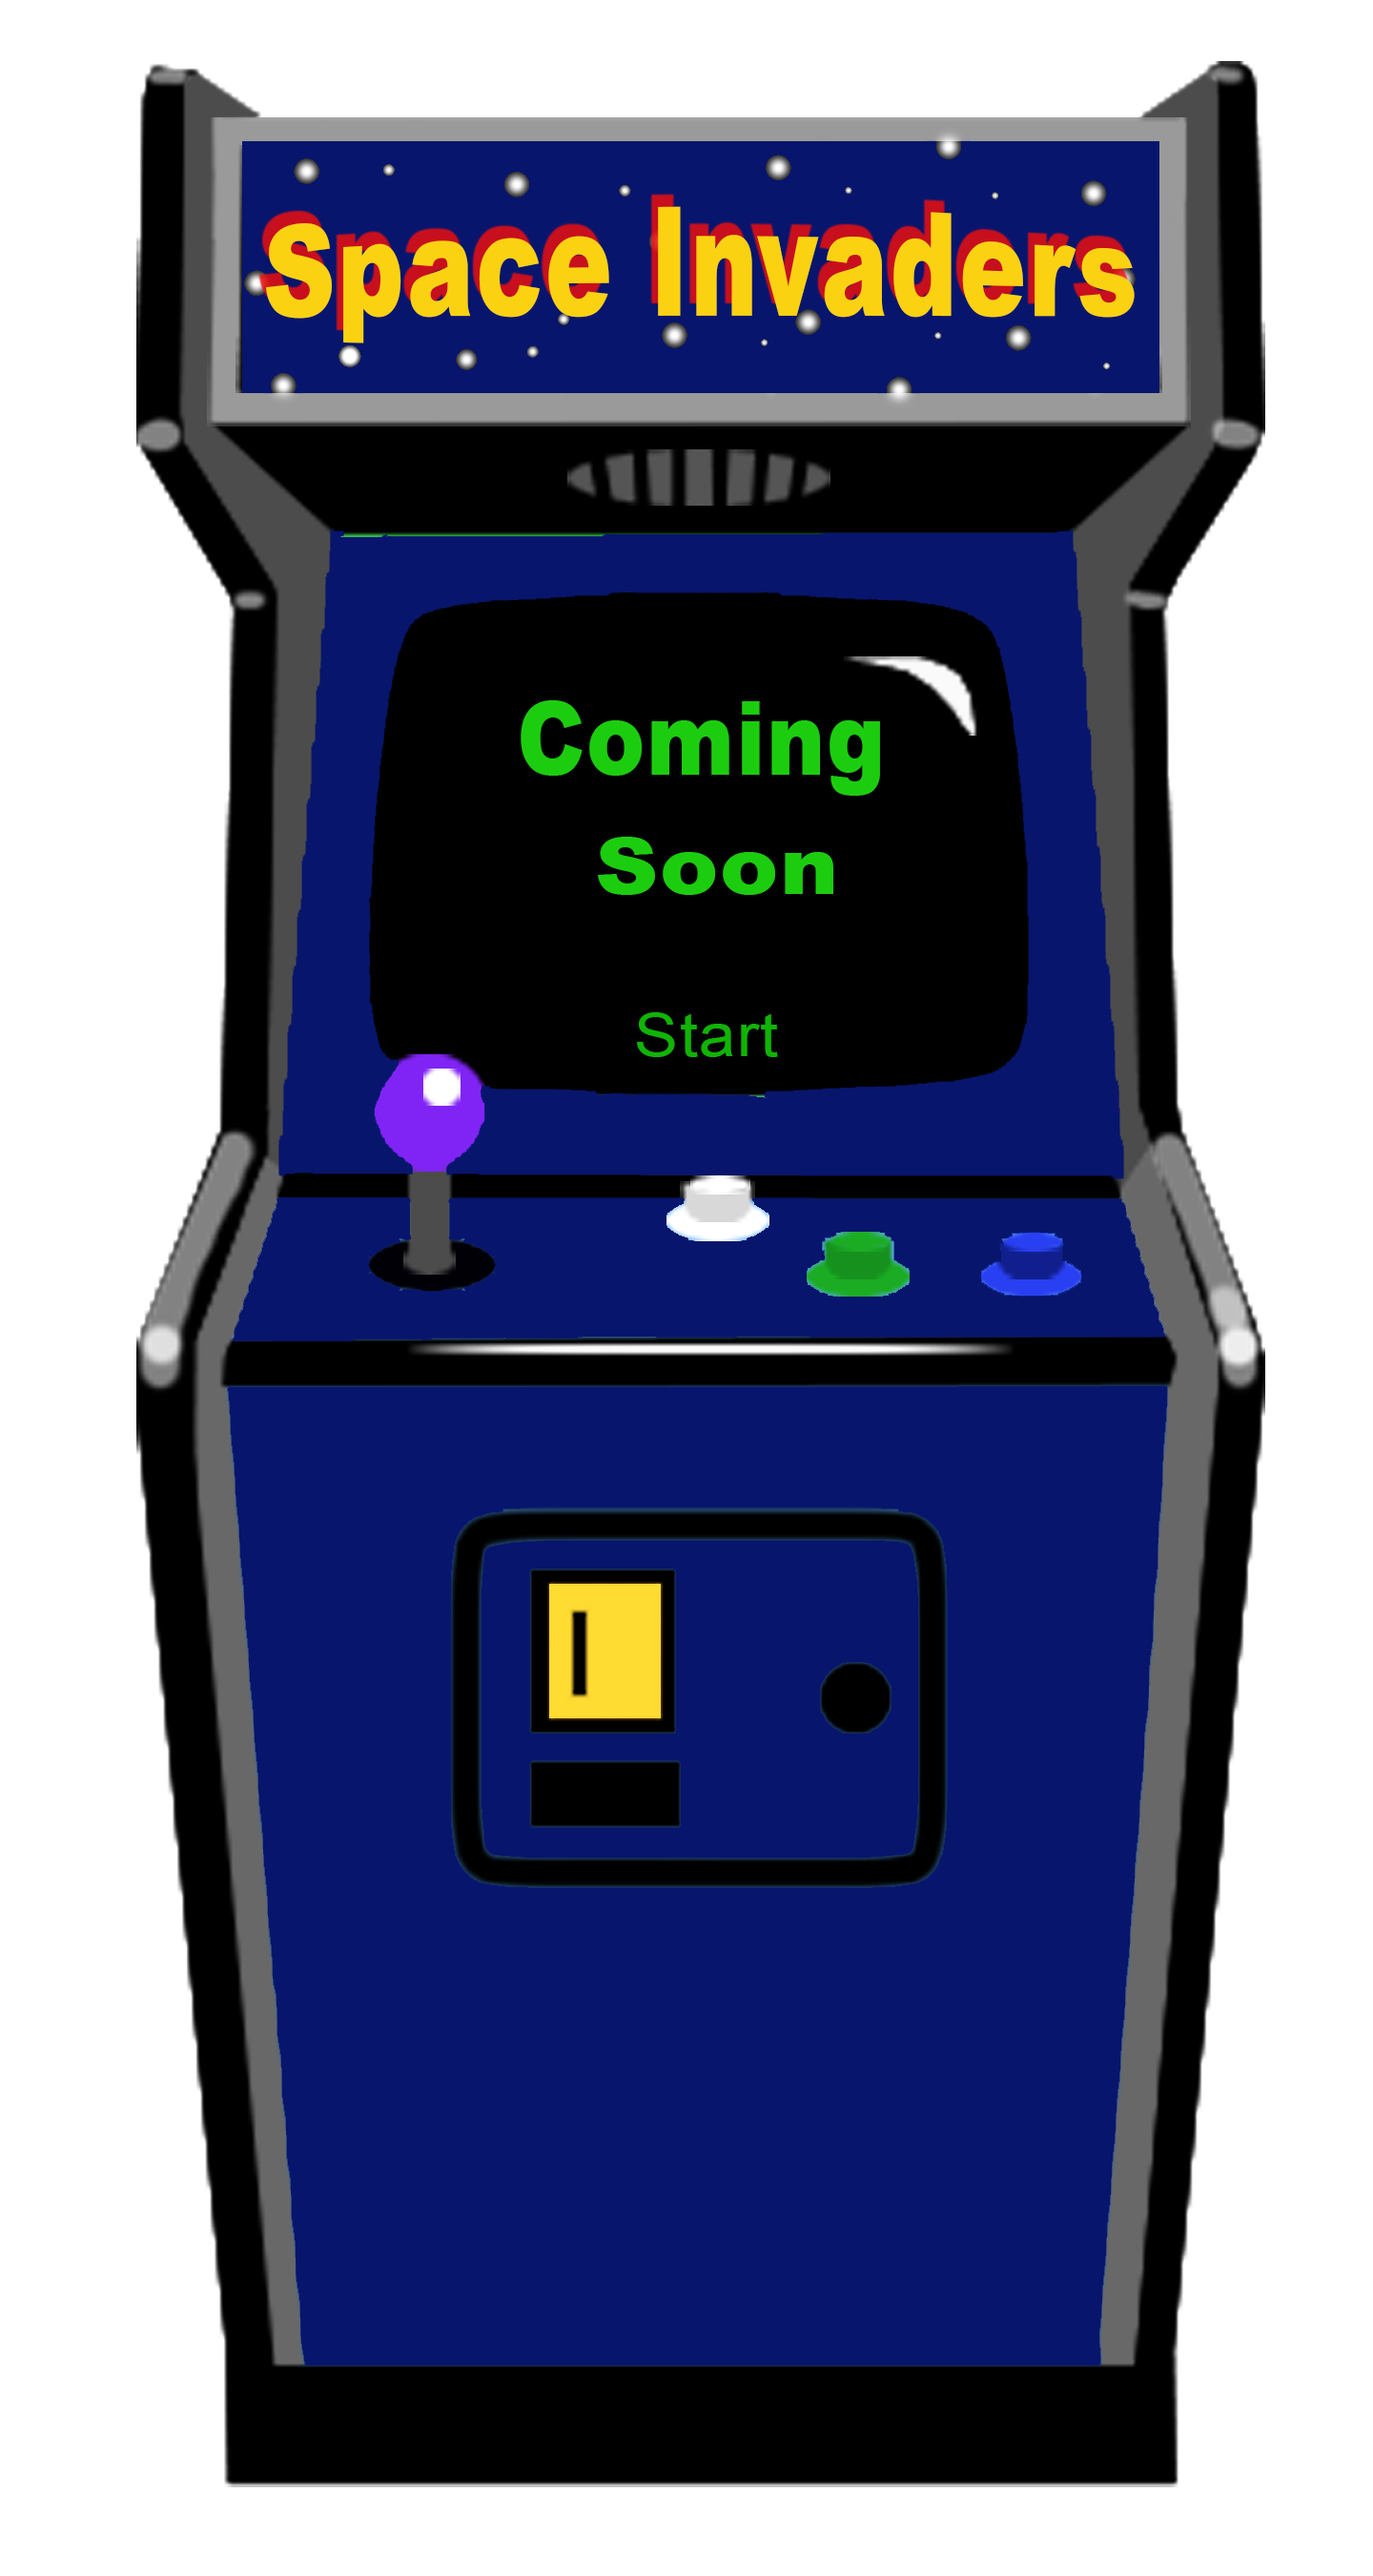
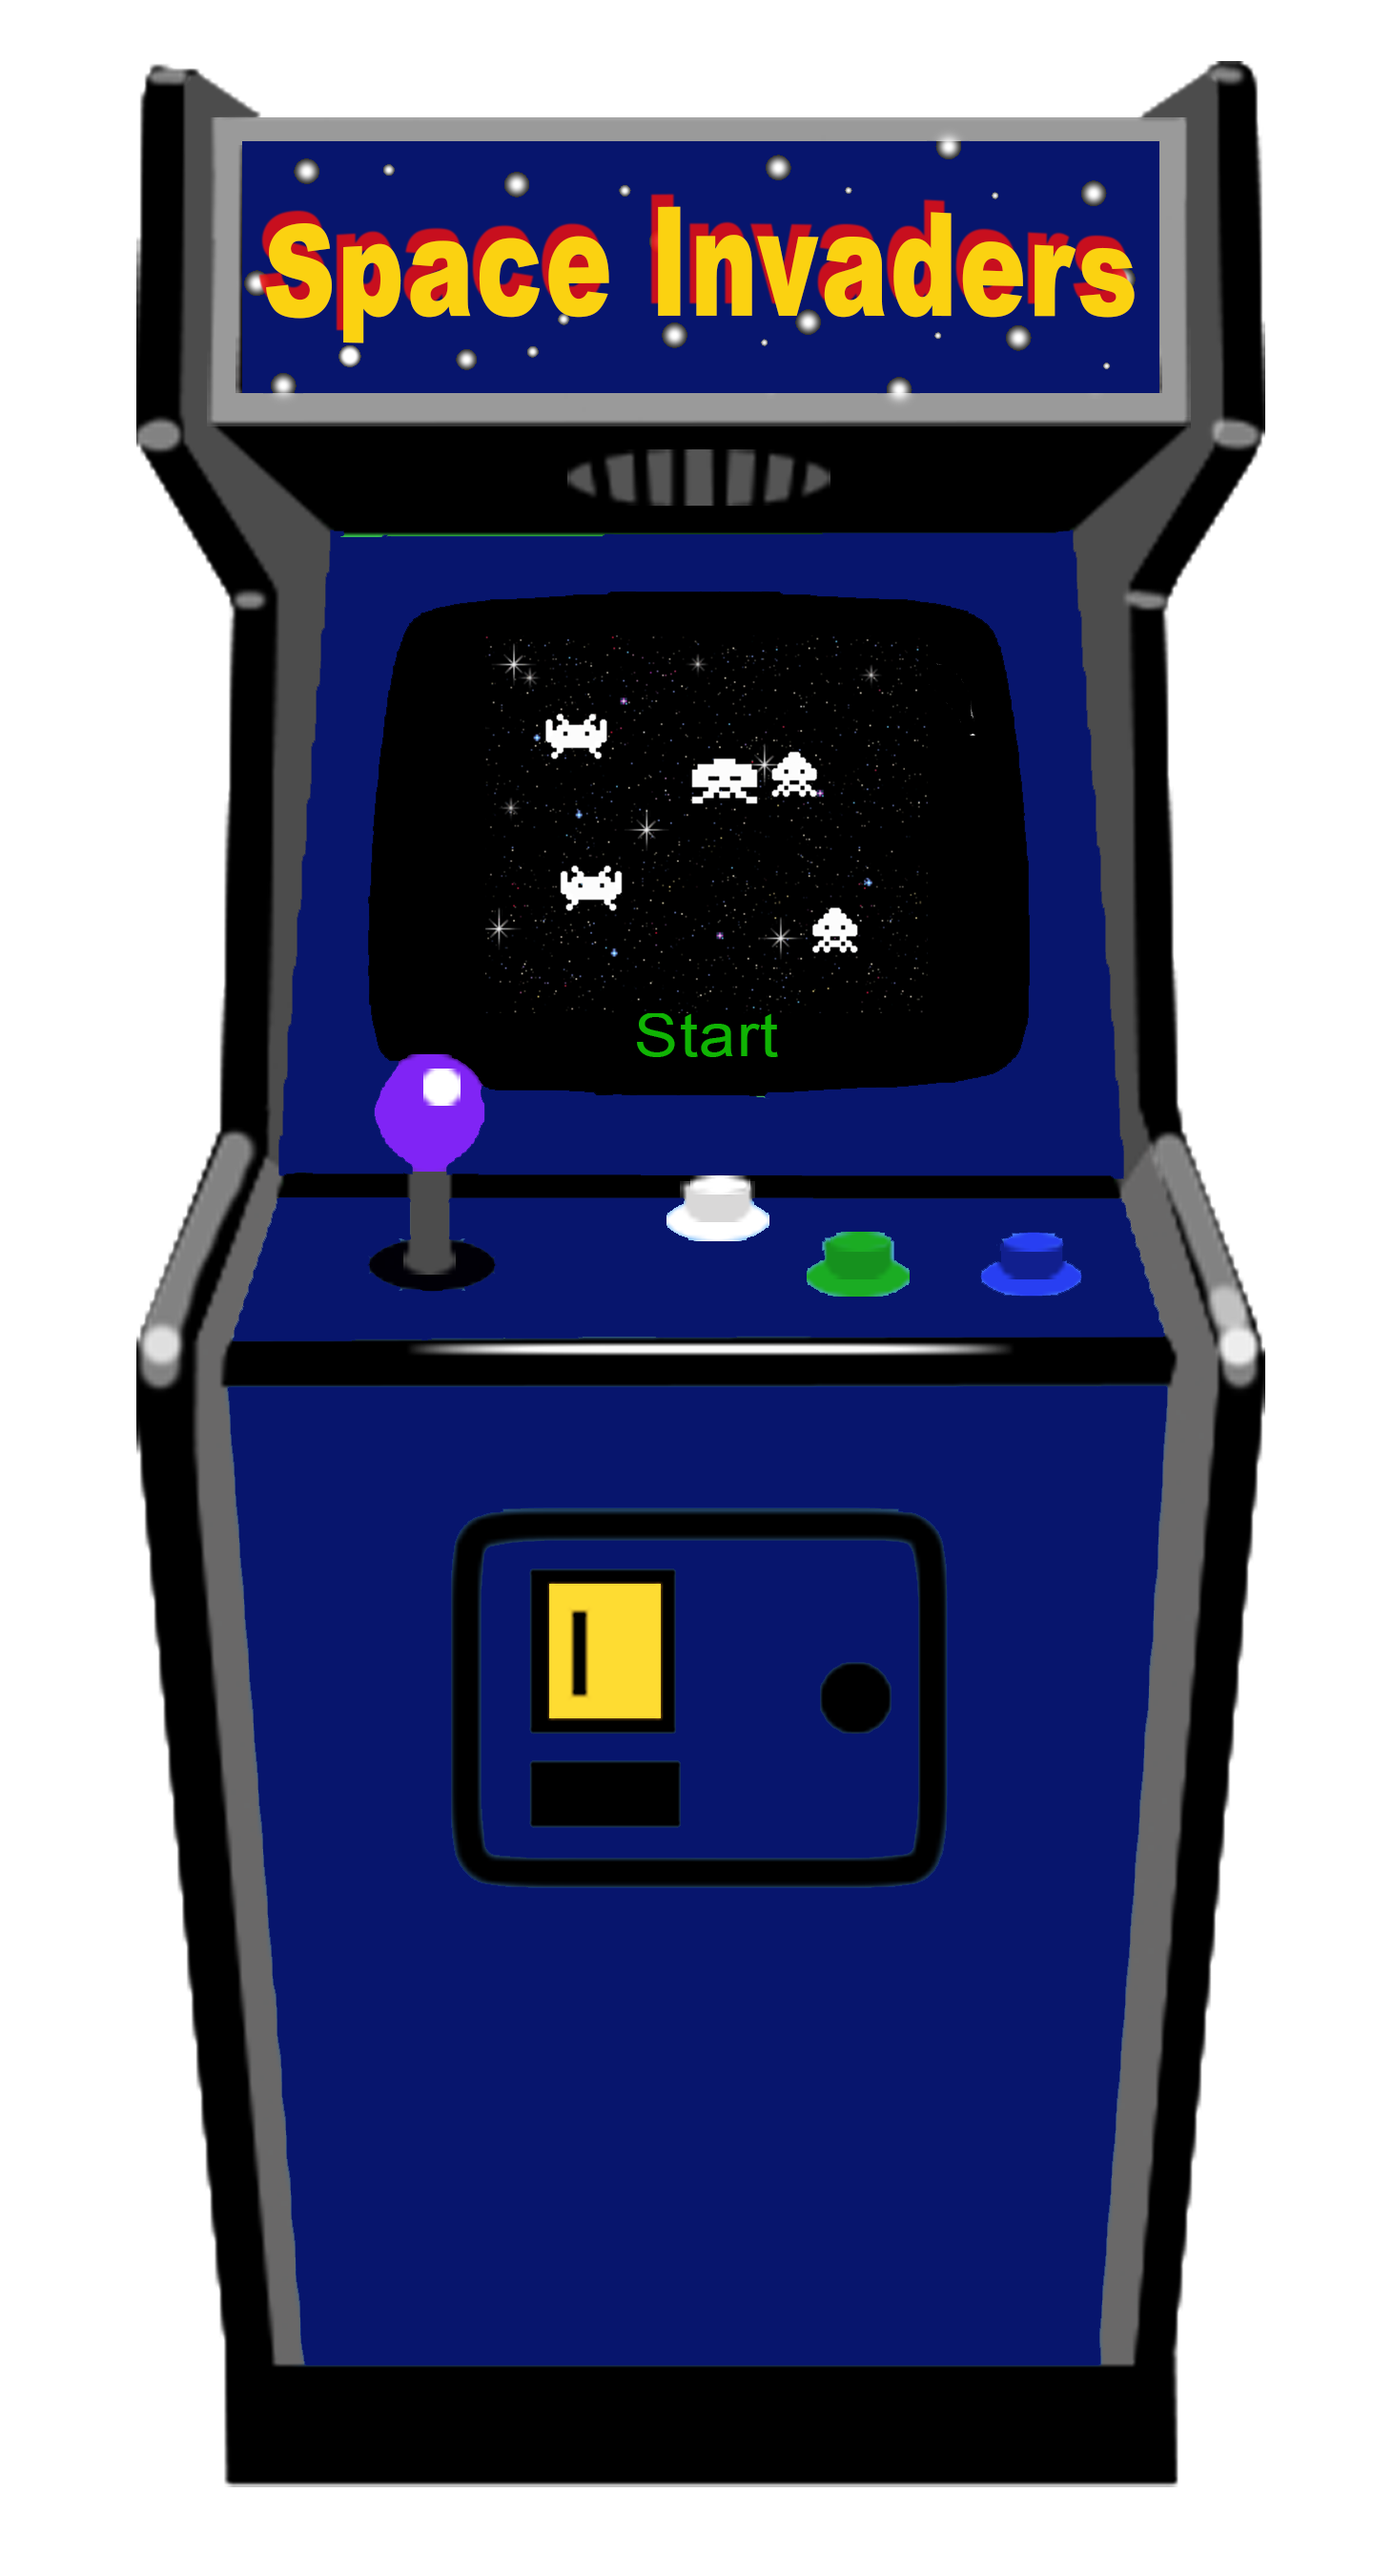
added a working space invaders video game

Changed region(s): [[0.375, 0.2489, 0.7188, 0.3733]]

diff --git a/space-invaders.js b/space-invaders.js
@@ -1,0 +1,166 @@
+var aliens = [];
+var bullets = [];
+var hits = 0;
+var miss = 0;
+var currentAliensPos = 0;
+
+// get HTML elements
+var body = document.getElementsByTagName('body')[0];
+var ship = document.getElementById('ship');
+var message = document.getElementById('message');
+var hitsTxt = document.getElementById('hits');
+var missTxt = document.getElementById('miss');
+
+// create array of random aliens
+for(var i=0; i<20; i++) {
+	var type = Math.floor(Math.random() * 3) + 1;
+	var posX = Math.floor(Math.random() * (window.innerWidth - 100)) + 0;
+	var posY = Math.floor(Math.random() * 200) + 0;
+
+	var alien = document.createElement('div');
+	alien.classList.add('enemy');
+	alien.classList.add('e'+type);
+	alien.style.top = posY + 'px';
+	alien.style.left = posX + 'px';
+
+	aliens.push(alien);
+	body.appendChild(alien);
+}
+
+// animate the aliens
+var animateAliens = setInterval(function() {
+	currentAliensPos = Math.abs(currentAliensPos - 50);
+	aliens.forEach(function(alien) {
+		alien.style.backgroundPositionX = currentAliensPos+'px';
+	});
+}, 1000);
+
+// move the aliens
+var moveAliens = setInterval(function() {
+	aliens.forEach(function(alien) {
+		var alienBounds = alien.getBoundingClientRect();
+
+		// check if game over
+		if(alienBounds.top >= window.innerHeight - 150) {
+			stopGame("Aliens Killed YOU");
+			return;
+		}
+
+		// decide what the alien does
+		var think = Math.floor(Math.random() * 3) - 1;
+		var spaceX = Math.floor(Math.random() * 100) + 1;
+
+		// calculate new X position
+		var posX = alienBounds.left + spaceX * think;
+		if(posX <= 10 || posX >= window.innerWidth - 50) return;
+
+		// move the alien
+		alien.style.top = alienBounds.top + 50 + 'px';
+		alien.style.left = posX + 'px';
+	});
+}, 1500);
+
+// treat bullets
+var animateBullets = setInterval(function() {
+	bullets.forEach(function(bullet, i) {
+		// get bounds of a bullet
+		var bulletBounds = bullet.getBoundingClientRect();
+
+		// when bullets get to the top
+		if(bulletBounds.top < 0) {
+			// remove bullet from the screen
+			bullets.splice(i, 1);
+			body.removeChild(bullet);
+
+			// increase the miss counter
+			missTxt.innerHTML = "Miss: " + (++miss);
+		}
+
+		// collisions to aliens
+		aliens.forEach(function(alien, j) {
+			var alienBounds = alien.getBoundingClientRect();
+			if(
+				bulletBounds.top <= alienBounds.bottom &&
+				bulletBounds.left >= alienBounds.left &&
+				bulletBounds.left <= alienBounds.right
+			){
+				// remove bullet (if still on screen)
+				if (bullet.parentNode == body) {
+					bullets.splice(i, 1);
+					body.removeChild(bullet);
+				}
+
+				// increate the hits counter
+				hitsTxt.innerHTML = "Hits: " + (++hits);
+
+				// take alien out of the game
+				aliens.splice(j, 1);
+				body.removeChild(alien);
+
+				// show explosion animation
+				var bum = document.createElement('div');
+				bum.classList.add('explosion');
+				bum.style.top = alienBounds.top + 'px';
+				bum.style.left = alienBounds.left + 'px';
+				body.appendChild(bum);
+
+				// remove explosion animation
+				setTimeout(function(){
+					body.removeChild(bum);
+				}, 1000);
+
+				// create a winning condition
+				if(aliens.length <= 0) {
+					stopGame("You saved the day!");
+					return;
+				}
+			}
+		});
+	});
+}, 100);
+
+// activate the ship
+body.addEventListener('keydown', shipActions);
+
+// move ship and fire when you press a key
+function shipActions(e) {
+	// get the bounds of the ship
+	var bounds = ship.getBoundingClientRect();
+
+	// left arrow
+	if (e.keyCode == '37') {
+		if(bounds.x - 20 <= 0) return;
+		ship.style.left = (bounds.x - 20) + 'px';
+	}
+
+	// right arrow
+	if (e.keyCode == '39') {
+		if(bounds.x + 100 >= window.innerWidth) return;
+		ship.style.left = (bounds.x + 20) + 'px';
+	}
+
+	// space bar
+	if (e.keyCode == '32') {
+		var bullet = document.createElement('div');
+		bullet.classList.add('bullet');
+		bullet.style.left = (bounds.x + 32) + 'px';
+
+		bullets.push(bullet);
+		body.appendChild(bullet);
+	}
+}
+
+// end game and show message
+function stopGame(msg) {
+	// stop the game timers
+	clearInterval(animateAliens);
+	clearInterval(moveAliens);
+	clearInterval(animateBullets);
+
+	// stop moving and firing the ship
+	body.removeEventListener('keydown', shipActions);
+
+	// display the message
+	message.innerHTML = msg;
+	message.style.display = "block";
+}

diff --git a/space-invaders.css b/space-invaders.css
@@ -1,0 +1,98 @@
+body {
+	background: black url('images/stars.gif') repeat right top;
+}
+
+.navbar{
+  z-index: 1;
+  text-shadow: 2px 2px 4px #000000;
+  color: black;
+}
+
+.navbar:not(.top-nav-collapse) {
+  background: #D2DFFF ;
+}
+
+@media (max-width: 991px) {
+  .navbar:not(.top-nav-collapse) {
+    background: #D2DFFF ;
+  }
+}
+
+#stats {
+	position: absolute;
+	right: 20px;
+	top: 20px;
+	border: 5px solid #D2DFFF;
+	width: 140px;
+	font-size: 22px;
+	font-weight: bold;
+	font-family: monospace;
+	text-align: center;
+	color: red;
+	background-color: #c1c1c1;
+}
+
+.play {
+	color: blue;
+	font-weight: bold;
+}
+
+#message {
+	color: yellow;
+	font-size: 62px;
+	margin-top: 250px;
+	width: 100%;
+	text-align: center;
+	display: none;
+}
+
+#ship {
+	height: 70px;
+	position: absolute;
+	bottom: 0px;
+	left: 50%;
+}
+
+.enemy {
+	background-image: url('images/invaders.png');
+	display: inline-block;
+	width: 50px;
+	height: 50px;
+	position: absolute;
+}
+
+.e1 {
+	background-position: 0px 0px;
+}
+
+.e2 {
+	background-position: 0px 50px;
+}
+
+.e3 {
+	background-position: 0px 100px;
+}
+
+.bullet {
+	background-color: red;
+	width: 3px;
+	height: 50px;
+	position: absolute;
+	bottom: 60px;
+	animation-name: moveUp;
+	animation-duration: 1s;
+	animation-timing-function: linear;
+}
+
+.explosion {
+	position: absolute;
+	background-image: url('images/bum.gif');
+	display: inline-block;
+	width: 50px;
+	height: 50px;
+}
+
+@keyframes moveUp {
+	from {bottom: 60px;}
+	to {bottom: 1000px;}
+}

diff --git a/space-invaders.html b/space-invaders.html
@@ -1,0 +1,47 @@
+<!DOCTYPE html>
+<html>
+<head>
+	<title>Space Invaders</title>
+	<meta name="viewport" content="width=device-width, initial-scale=1">
+	<link rel="stylesheet" href="https://cdnjs.cloudflare.com/ajax/libs/materialize/1.0.0/css/materialize.min.css">
+	<link rel="stylesheet" type="text/css" media="screen" href="space-invaders.css" />
+</head>
+
+<body>
+
+	<nav class="navbar">
+			<ul class="navbar-nav">
+				<li class="nav-item active">
+					<a class="nav-link" href="index.html">Home</a>
+				</li>
+				<li class="nav-item">
+					<a class="nav-link" href="index.html#about">About</a>
+				</li>
+				<li class="nav-item">
+					<a class="nav-link" href="index.html#howitworks">How It Works</a>
+				</li>
+				<li class="nav-item">
+					<a class="nav-link" href="index.html#games">Games</a>
+				</li>
+				<li class="nav-item">
+					<a class="nav-link" href="index.html#search">Search</a>
+				</li>
+				<p>Use the Spacebar to attack. Use the Arrow keys to move right and left.</p>
+			</ul>
+	</nav>
+
+	<div id="stats">
+		<p id="hits">Hits: 0</p>
+		<p id="miss">Miss: 0</p>
+		<div class="play">
+			<A HREF="javascript:history.go(0)">Play Again</A>
+		</div>
+	</div>
+
+	<p id="message"></p>
+	<img id="ship" src="images/tank2.png"/>
+
+	<!--include non-blocking js-->
+	<script src="space-invaders.js"></script>
+</body>
+</html>

diff --git a/index.html b/index.html
@@ -52,12 +52,14 @@
           <div class="games-title">
             <p>Games</p>
           </div>
-          <a href="whackaluffy.html">
             <div class="g1">
+              <a href="whackaluffy.html">
               <img src="images/whackaluffy.png" alt="G1" width="250px" height="475px">
             </div>
           </a>
+
             <div class="g2">
+              <a href="space-invaders.html">
               <img src="images/arcade-game-si.png" alt="G2" width="250px" height="475px">
             </div>
         </div>
